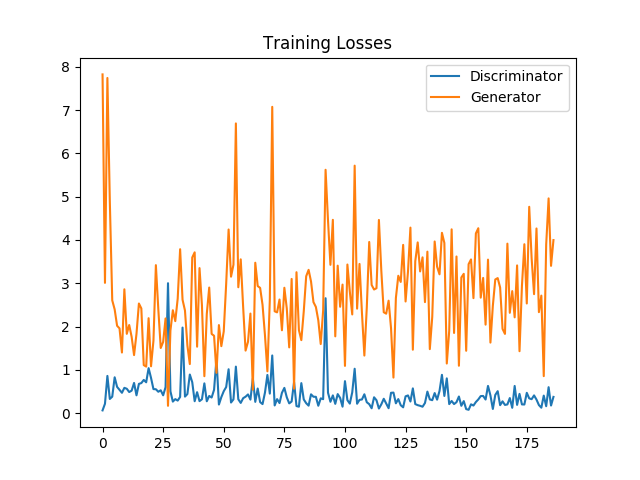
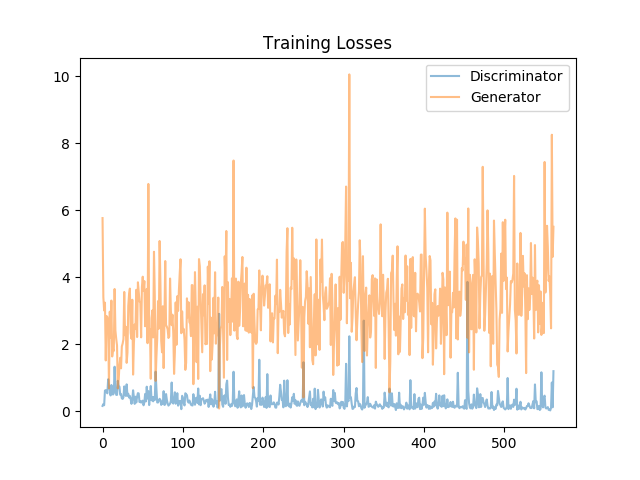
consistent implementation pytorch

diff --git a/Work-place/DCGAN-MNIST/DCGAN-MNIST-pytorch.py b/Work-place/DCGAN-MNIST/DCGAN-MNIST-pytorch.py
@@ -3,7 +3,9 @@ from torch.nn import init
 from torch.autograd import Variable
 import torchvision
 import matplotlib.pyplot as plt 
-import numpy as np 
+import numpy as np
+import os
+import time
 import imageio
 
 def my_weight_init(m):
@@ -83,6 +85,25 @@ class Discriminator(torch.nn.Module):
 
         return out
 
+# image save function
+def save_generator_output(G, fixed_z, img_str, title):
+    n_images = fixed_z.size()[0]
+    n_rows = np.sqrt(n_images).astype(np.int32)
+    n_cols = np.sqrt(n_images).astype(np.int32)
+    
+    z_ = Variable(fixed_z.cuda())
+    samples = G(z_)
+    samples = samples.cpu().data.numpy()
+
+    fig, axes = plt.subplots(nrows=n_rows, ncols=n_cols, figsize=(5,5), sharey=True, sharex=True)
+    for ax, img in zip(axes.flatten(), samples):
+        ax.axis('off')
+        ax.set_adjustable('box-forced')
+        ax.imshow(img.reshape((28,28)), cmap='Greys_r', aspect='equal')
+    plt.subplots_adjust(wspace=0, hspace=0)
+    plt.suptitle(title)
+    plt.savefig(img_str)
+    plt.close(fig)
 
 '''
 Parameters
@@ -94,7 +115,7 @@ x_size = image_channels
 z_size = 100
 # n_hidden = 128
 # n_classes = 10
-epochs = 10
+epochs = 30
 batch_size = 64
 learning_rate = 0.0002
 alpha = 0.2
@@ -121,27 +142,9 @@ BCE_loss = torch.nn.BCELoss()
 G_opt = torch.optim.Adam( G.parameters(), lr=learning_rate, betas=[beta1, 0.999] )
 D_opt = torch.optim.Adam( D.parameters(), lr=learning_rate, betas=[beta1, 0.999] )
 
-# image save function
-def save_generator_output(G, fixed_z, img_str, title):
-    n_images = fixed_z.size()[0]
-    n_rows = np.sqrt(n_images).astype(np.int32)
-    n_cols = np.sqrt(n_images).astype(np.int32)
-
-    sample_z = Variable(fixed_z.cuda())
-    gen_samples = G(sample_z)
-    samples = []
-    for k in range(n_images):
-        samples.append(gen_samples[k, :].cpu().data.numpy())
-    
-    fig, axes = plt.subplots(nrows=n_rows, ncols=n_cols, figsize=(5,5), sharey=True, sharex=True)
-    for ax, img in zip(axes.flatten(), samples):
-        ax.axis('off')
-        ax.set_adjustable('box-forced')
-        ax.imshow(img.reshape((28,28)), cmap='Greys_r', aspect='equal')
-    plt.subplots_adjust(wspace=0, hspace=0)
-    plt.suptitle(title)
-    plt.savefig(img_str)
-    plt.close(fig)
+assets_dir = './assets/'
+if not os.path.isdir(assets_dir):
+    os.mkdir(assets_dir)
 
 '''
 Start training
@@ -150,7 +153,7 @@ step = 0
 samples = []
 losses = []
 fixed_z = torch.Tensor(25, z_size).uniform_(-1, 1)
-
+start_time = time.time()
 for e in range(epochs):
     for x_, _ in train_loader:
         step += 1
@@ -212,10 +215,15 @@ for e in range(epochs):
     image_title = 'epoch {:d}'.format(e)
     save_generator_output(G, fixed_z, image_fn, image_title)
 
-fig1, ax1 = plt.subplots()
+end_time = time.time()
+total_time = end_time - start_time
+print('Elapsed time: ', total_time)
+# 30 epochs: 751.90
+
+fig, ax = plt.subplots()
 losses = np.array(losses)
-plt.plot(losses.T[0], label='Discriminator')
-plt.plot(losses.T[1], label='Generator')
+plt.plot(losses.T[0], label='Discriminator', alpha=0.5)
+plt.plot(losses.T[1], label='Generator', alpha=0.5)
 plt.title("Training Losses")
 plt.legend()
 plt.savefig('./assets/losses_pytorch.png')
